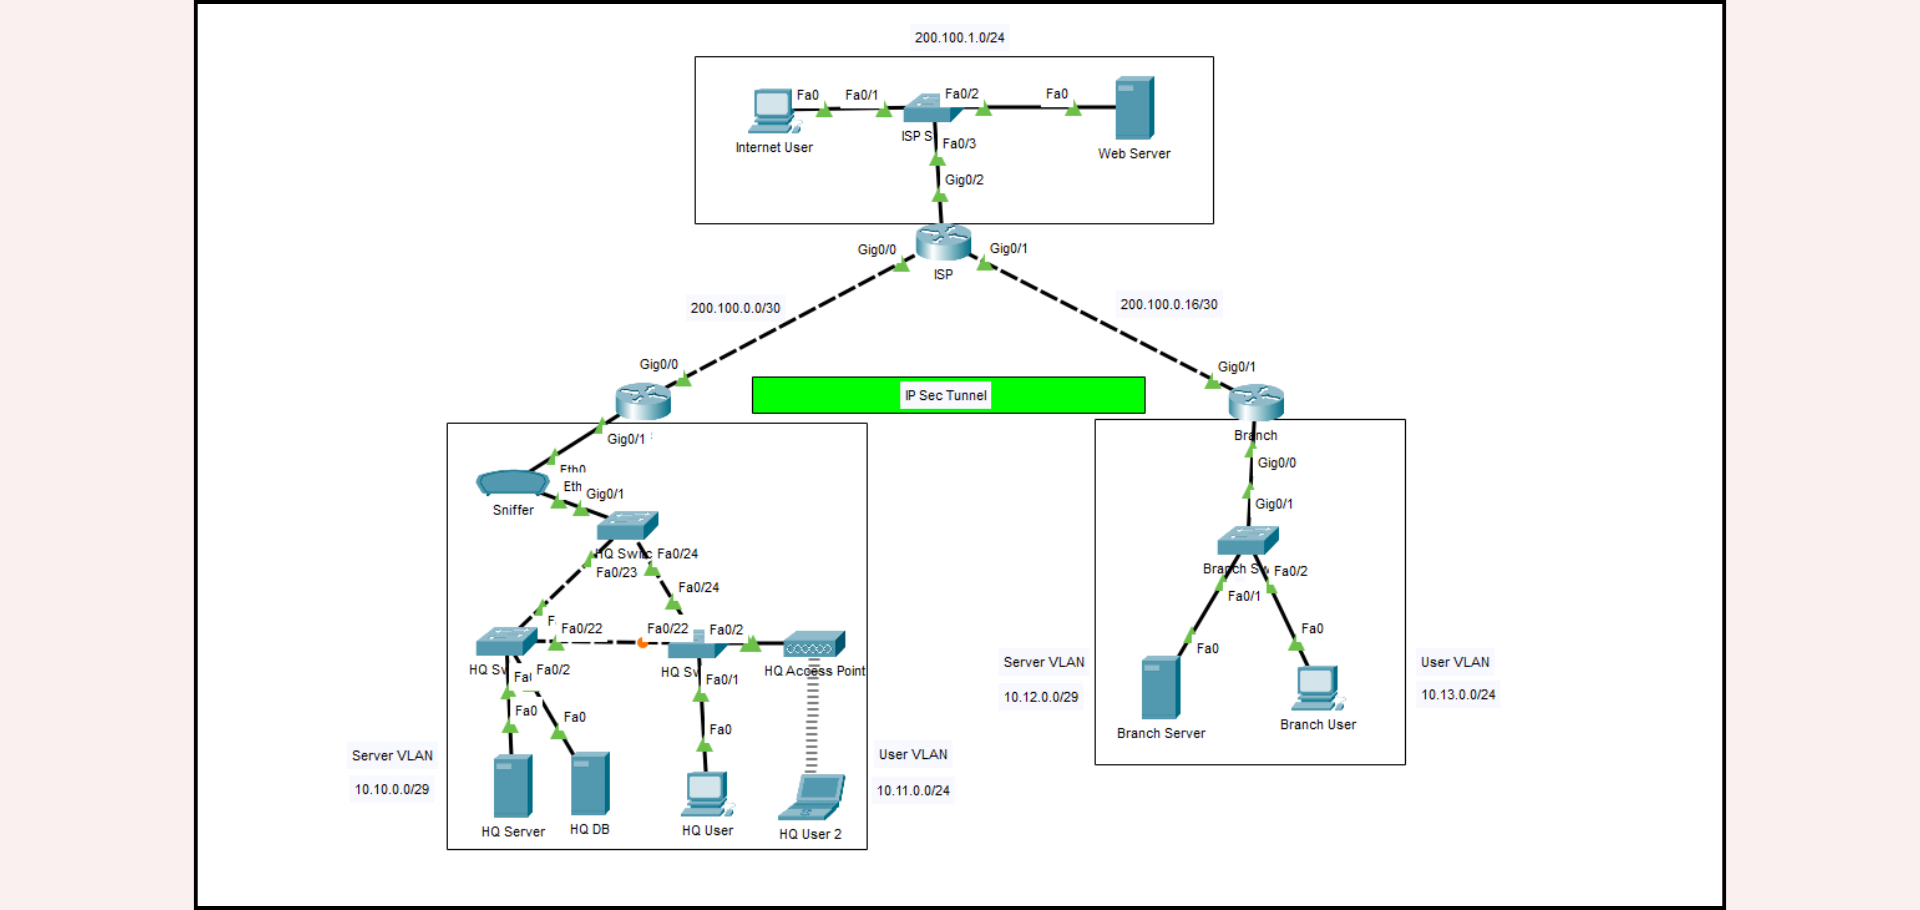
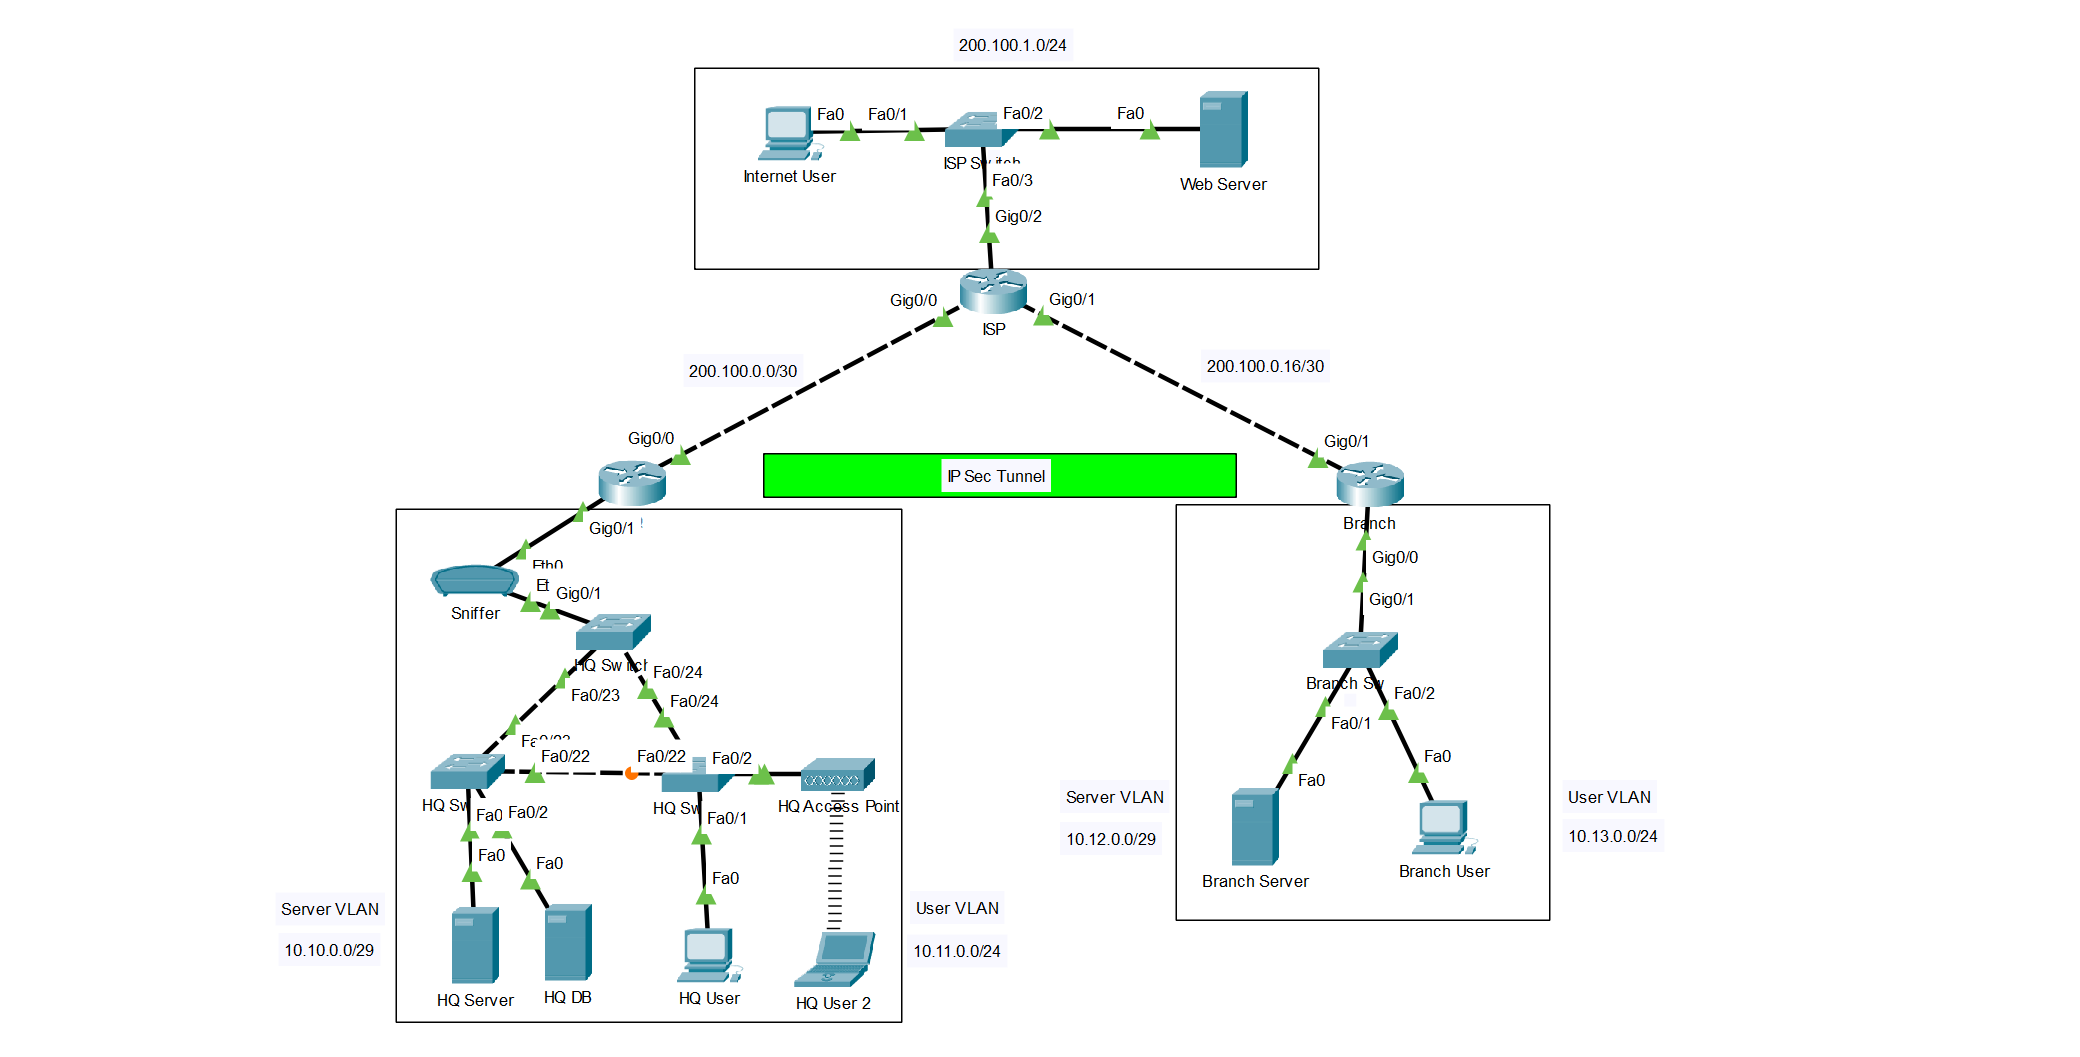
Added New achievements and fixed carousel sizing and contact me page sizing

diff --git a/index.html b/index.html
@@ -836,13 +836,13 @@
             <div class="modal-dialog modal-lg" role="document">
                 <div class="modal-content">
                     <div class="modal-header">
-                        <h5 class="modal-title" id="projectModalLabel11"><b>PDF-Tools</b></h5>
+                        <h5 class="modal-title" id="projectModalLabel11"><b>PDF Tools</b></h5>
                         <button type="button" class="close" data-dismiss="modal" aria-label="Close">
                             <span aria-hidden="true">&times;</span>
                         </button>
                     </div>
                     <div class="modal-body">
-                        <img src="IMG/PRJ/PDFT2.png" class="img-fluid mb-3" alt="PDF-Tools Project">
+                        <img src="IMG/PRJ/PDFT2.png" class="img-fluid mb-3" alt="PDF Tools Project">
                         <div class="modal-text">
                             <p><strong>Project Description:</strong></p>
                             <p>
@@ -900,7 +900,22 @@
         <div id="nypCarousel" class="carousel slide mb-5 nyp-carousel scroll-animate" data-ride="carousel" data-interval="false">
             <div class="carousel-inner">
                 <div class="carousel-item active">
-                    <img src="IMG/NYP/WSS25.png" class="d-block w-100 achievement-img" alt="NYP Achievement 6" data-toggle="modal" data-target="#nypModal6">
+                    <div class="achievement-frame">
+                        <img src="IMG/NYP/Academic.png" class="d-block w-100 achievement-img" alt="NYP Achievement 4" data-toggle="modal" data-target="#nypModal4">
+                    </div>
+                    <div class="achievement-description p-3">
+                        <h5><b>Edusave Certificate of Academic Achievement 2024/2025</b></h5>
+                        <p>Awarded to Students for Achieving Good Academic Performance and Demonstrating Good Conduct.</p>
+                        <div class="project-tags">
+                            <span class="tag">2025</span>
+                            <span class="tag">2024</span>
+                        </div>
+                    </div>
+                </div>
+                <div class="carousel-item">
+                    <div class="achievement-frame">
+                        <img src="IMG/NYP/WSS25.png" class="d-block w-100 achievement-img" alt="NYP Achievement 6" data-toggle="modal" data-target="#nypModal6">
+                    </div>
                     <div class="achievement-description p-3">
                         <h5><b>Medallion for Excellence (WSS25 IT Network Systems Administration)</b></h5>
                         <p>Awarded to competitors who obtain a high level of excellence, with 700 or more points out of 800 but who are not awarded a gold, silver, or bronze medal.</p>
@@ -910,7 +925,9 @@
                     </div>
                 </div>
                 <div class="carousel-item">
-                    <img src="IMG/NYP/Net.png" class="d-block w-100 achievement-img" alt="NYP Achievement 7" data-toggle="modal" data-target="#nypModal7">
+                    <div class="achievement-frame">
+                        <img src="IMG/NYP/Net.png" class="d-block w-100 achievement-img" alt="NYP Achievement 7" data-toggle="modal" data-target="#nypModal7">
+                    </div>
                     <div class="achievement-description p-3">
                         <h5><b>Cisco APJC Netacad Riders 2025 Participant</b></h5>
                         <p>Awarded to Participants in APJC NetAcad Riders 2025.</p>
@@ -920,7 +937,9 @@
                     </div>
                 </div>
                 <div class="carousel-item">
-                    <img src="IMG/NYP/Scholarship.png" class="d-block w-100 achievement-img" alt="NYP Achievement 1" data-toggle="modal" data-target="#nypModal1">
+                    <div class="achievement-frame">
+                        <img src="IMG/NYP/Scholarship.png" class="d-block w-100 achievement-img" alt="NYP Achievement 1" data-toggle="modal" data-target="#nypModal1">
+                    </div>
                     <div class="achievement-description p-3">
                         <h5><b>NYP Scholarship (Mid-Term)</b></h5>
                         <p>The NYP Scholarship is offered to top performing Year 2 students who are pursuing full time diploma courses in NYP.</p>
@@ -931,7 +950,9 @@
                     </div>
                 </div>
                 <div class="carousel-item">
-                    <img src="IMG/NYP/NYPDlist2.png" class="d-block w-100 achievement-img" alt="NYP Achievement 5" data-toggle="modal" data-target="#nypModal5">
+                    <div class="achievement-frame">
+                        <img src="IMG/NYP/NYPDlist2.png" class="d-block w-100 achievement-img" alt="NYP Achievement 5" data-toggle="modal" data-target="#nypModal5">
+                    </div>
                     <div class="achievement-description p-3">
                         <h5><b>Director's List [Y2S1]</b></h5>
                         <p>Awarded to Top 15% in Course of Study at Nanyang Polytechnic.</p>
@@ -942,7 +963,9 @@
                     </div>
                 </div>
                 <div class="carousel-item">
-                    <img src="IMG/NYP/Perform.png" class="d-block w-100 achievement-img" alt="NYP Achievement 2" data-toggle="modal" data-target="#nypModal2">
+                    <div class="achievement-frame">
+                        <img src="IMG/NYP/Perform.png" class="d-block w-100 achievement-img" alt="NYP Achievement 2" data-toggle="modal" data-target="#nypModal2">
+                    </div>
                     <div class="achievement-description p-3">
                         <h5><b>Best Performing Student [Y1] [Diploma in Infocomm & Security]</b></h5>
                         <p>Awarded to a Top Performing Student in Course of Study in their Cohort.</p>
@@ -953,23 +976,15 @@
                     </div>
                 </div>
                 <div class="carousel-item">
-                    <img src="IMG/NYP/NYPDlist.png" class="d-block w-100 achievement-img" alt="NYP Achievement 3" data-toggle="modal" data-target="#nypModal3">
+                    <div class="achievement-frame">
+                        <img src="IMG/NYP/NYPDlist.png" class="d-block w-100 achievement-img" alt="NYP Achievement 3" data-toggle="modal" data-target="#nypModal3">
+                    </div>
                     <div class="achievement-description p-3">
                         <h5><b>Director's List [Y1S1/S2]</b></h5>
                         <p>Awarded to Top 15% in Course of Study at Nanyang Polytechnic.</p>
                         <div class="project-tags">
                             <span class="tag">2024</span>
                             <span class="tag">2023</span>
-                        </div>
-                    </div>
-                </div>
-                <div class="carousel-item">
-                    <img src="IMG/NYP/Academic.png" class="d-block w-100 achievement-img" alt="NYP Achievement 4" data-toggle="modal" data-target="#nypModal4">
-                    <div class="achievement-description p-3">
-                        <h5><b>Edusave Certificate of Academic Achievement 2024</b></h5>
-                        <p>Awarded to Students for Achieving Good Academic Performance and Demonstrating Good Conduct.</p>
-                        <div class="project-tags">
-                            <span class="tag">2024</span>
                         </div>
                     </div>
                 </div>
@@ -989,7 +1004,9 @@
         <div id="iteCarousel" class="carousel slide mb-5 ite-carousel scroll-animate" data-ride="carousel" data-interval="false">
             <div class="carousel-inner">
                 <div class="carousel-item active">
-                    <img src="IMG/ITE/Outstanding.png" class="d-block w-100 achievement-img" alt="ITE Achievement 1" data-toggle="modal" data-target="#iteModal1">
+                    <div class="achievement-frame">
+                        <img src="IMG/ITE/Outstanding.png" class="d-block w-100 achievement-img" alt="ITE Achievement 1" data-toggle="modal" data-target="#iteModal1">
+                    </div>
                     <div class="achievement-description p-3">
                         <h5><b>Outstanding Graduate Award</b></h5>
                         <p>Awarded to a Top Graduate in Course of Study at ITE College East.</p>
@@ -999,7 +1016,9 @@
                     </div>
                 </div>
                 <div class="carousel-item">
-                    <img src="IMG/ITE/Eagles.png" class="d-block w-100 achievement-img" alt="ITE Achievement 2" data-toggle="modal" data-target="#iteModal2">
+                    <div class="achievement-frame">
+                        <img src="IMG/ITE/Eagles.png" class="d-block w-100 achievement-img" alt="ITE Achievement 2" data-toggle="modal" data-target="#iteModal2">
+                    </div>
                     <div class="achievement-description p-3">
                         <h5><b>Edusave Award for Achievement, Good Leadership and Service (EAGLES) 2023</b></h5>
                         <p>Awarded to Students for Demonstrating Leadership Qualities, Service to Community and Schools, Excellence in Non-academic Activities, and Good Conduct.</p>
@@ -1009,7 +1028,9 @@
                     </div>
                 </div>
                 <div class="carousel-item">
-                    <img src="IMG/ITE/Academic.png" class="d-block w-100 achievement-img" alt="ITE Achievement 3" data-toggle="modal" data-target="#iteModal3">
+                    <div class="achievement-frame">
+                        <img src="IMG/ITE/Academic.png" class="d-block w-100 achievement-img" alt="ITE Achievement 3" data-toggle="modal" data-target="#iteModal3">
+                    </div>
                     <div class="achievement-description p-3">
                         <h5><b>Edusave Certificate of Academic Achievement 2022/2023</b></h5>
                         <p>Awarded to Students for Achieving Good Academic Performance and Demonstrating Good Conduct.</p>
@@ -1020,7 +1041,9 @@
                     </div>
                 </div>
                 <div class="carousel-item">
-                    <img src="IMG/ITE/ITEDlist.png" class="d-block w-100 achievement-img" alt="ITE Achievement 4" data-toggle="modal" data-target="#iteModal4">
+                    <div class="achievement-frame">
+                        <img src="IMG/ITE/ITEDlist.png" class="d-block w-100 achievement-img" alt="ITE Achievement 4" data-toggle="modal" data-target="#iteModal4">
+                    </div>
                     <div class="achievement-description p-3">
                         <h5><b>Director's List [Y1S1/S2]</b></h5>
                         <p>Awarded to Top 10% in Course of Study at ITE College East.</p>
@@ -1031,7 +1054,9 @@
                     </div>
                 </div>
                 <div class="carousel-item">
-                    <img src="IMG/ITE/Service.png" class="d-block w-100 achievement-img" alt="ITE Achievement 5" data-toggle="modal" data-target="#iteModal5">
+                    <div class="achievement-frame">
+                        <img src="IMG/ITE/Service.png" class="d-block w-100 achievement-img" alt="ITE Achievement 5" data-toggle="modal" data-target="#iteModal5">
+                    </div>
                     <div class="achievement-description p-3">
                         <h5><b>Gold Service Star Award</b></h5>
                         <p>Awarded to students for their exceptional efforts and contributions in charitable acts and/or service to ITE College East.</p>
@@ -1041,7 +1066,9 @@
                     </div>
                 </div>
                 <div class="carousel-item">
-                    <img src="IMG/ITE/Character.png" class="d-block w-100 achievement-img" alt="ITE Achievement 6" data-toggle="modal" data-target="#iteModal6">
+                    <div class="achievement-frame">
+                        <img src="IMG/ITE/Character.png" class="d-block w-100 achievement-img" alt="ITE Achievement 6" data-toggle="modal" data-target="#iteModal6">
+                    </div>
                     <div class="achievement-description p-3">
                         <h5><b>Edusave Character Award 2022</b></h5>
                         <p>Awarded to Students for Demonstrating Exemplary Character and Outstanding Personal Qualities.</p>
@@ -1051,7 +1078,9 @@
                     </div>
                 </div>
                 <div class="carousel-item">
-                    <img src="IMG/ITE/Net.png" class="d-block w-100 achievement-img" alt="ITE Achievement 7" data-toggle="modal" data-target="#iteModal7">
+                    <div class="achievement-frame">
+                        <img src="IMG/ITE/Net.png" class="d-block w-100 achievement-img" alt="ITE Achievement 7" data-toggle="modal" data-target="#iteModal7">
+                    </div>
                     <div class="achievement-description p-3">
                         <h5><b>Cisco APJC Netacad Riders 2022 Participant</b></h5>
                         <p>Awarded to Participants in APJC NetAcad Riders 2022.</p>
@@ -1061,7 +1090,9 @@
                     </div>
                 </div>
                 <div class="carousel-item">
-                    <img src="IMG/ITE/Intern.png" class="d-block w-100 achievement-img" alt="ITE Achievement 8" data-toggle="modal" data-target="#iteModal8">
+                    <div class="achievement-frame">
+                        <img src="IMG/ITE/Intern.png" class="d-block w-100 achievement-img" alt="ITE Achievement 8" data-toggle="modal" data-target="#iteModal8">
+                    </div>
                     <div class="achievement-description p-3">
                         <h5><b>Internship Programme at NEO Electronics Pte Ltd</b></h5>
                         <p>Completed Internship Programme at NEO Electronics Pte Ltd</p>

diff --git a/CSS/home.css b/CSS/home.css
@@ -221,7 +221,7 @@ html, body {
 
 .modal-title {
     font-size: 1.8rem;
-    color: #00796b; 
+    color: #00796b;
 }
 
 .modal-body {
@@ -747,7 +747,7 @@ html, body {
     text-align: center;
     padding: 20px;
     background: linear-gradient(135deg, #b2ebf2, #4dd0e1);
-    color: #004d40;
+    color: #00796b;
     font-size: 1rem;
     border-radius: 20px 20px 20px 20px;
     box-shadow: 0 -5px 10px rgba(0, 0, 0, 0.1);
@@ -856,4 +856,107 @@ html, body {
     color: #00796b;
 }
 
+.achievement-description {
+  height: 205px;      
+  overflow: hidden;    
+  display: flex;
+  flex-direction: column;
+  justify-content: flex-start;
+}
 
+.achievement-description .project-tags {
+  margin-top: auto;            
+  padding-top: 10px;          
+}
+
+@media (max-width: 768px) {
+  .achievement-description {
+    height: 235px;  
+  }
+}
+
+
+@media (max-width: 576px) {
+  .achievement-description {
+    height: 285px;  
+  }
+}
+
+.nyp-carousel .carousel-control-prev,
+.nyp-carousel .carousel-control-next,
+.ite-carousel .carousel-control-prev,
+.ite-carousel .carousel-control-next {
+  top: 50%;                        
+  transform: translateY(-50%);
+  bottom: auto;                    
+  height: 80px;                    
+  width: 40px;                      
+  display: flex;
+  align-items: center;
+  justify-content: center;
+}
+
+.nyp-carousel .achievement-img,
+.ite-carousel .achievement-img {
+  position: relative;
+}
+
+.nyp-carousel .carousel-control-prev,
+.nyp-carousel .carousel-control-next,
+.ite-carousel .carousel-control-prev,
+.ite-carousel .carousel-control-next {
+  z-index: 5;                      
+}
+
+.achievement-frame{
+  aspect-ratio: 16 / 9;        
+  width: 100%;
+  border-radius: 20px 20px 0 0;
+  overflow: hidden;
+  display: flex;
+  align-items: center;
+  justify-content: center;
+  background: #e0f7fa;        
+}
+
+.achievement-frame .achievement-img{
+  max-width: 100%;
+  max-height: 100%;
+  object-fit: contain;
+  display: block;
+}
+
+@media (min-width: 768px) and (max-width: 1024px) {
+
+  .nyp-carousel,
+  .ite-carousel {
+    max-width: 92%;
+    margin-left: auto;
+    margin-right: auto;
+    border-radius: 22px;
+  }
+
+  .achievement-description {
+    height: 230px;            
+  }
+  #about .col-md-6.text-start {
+    flex: 0 0 70%;    
+    max-width: 70%;
+  }
+
+  #about p {
+    font-size: 1.2rem;
+    line-height: 1.7;  
+  }
+
+  #about h2 {
+    font-size: 2.8rem;
+  }
+}
+
+#about h2 {
+  color: #00796b;
+}
+.project-card h3 {
+  color: #00796b;
+}

diff --git a/CSS/contact.css b/CSS/contact.css
@@ -118,7 +118,7 @@ body {
     text-align: center;
     padding: 20px;
     background: linear-gradient(135deg, #b2ebf2, #4dd0e1);
-    color: #004d40;
+    color: #00796b;
     font-size: 1rem;
     border-radius: 20px 20px 20px 20px;
     box-shadow: 0 -5px 10px rgba(0, 0, 0, 0.1);
@@ -169,4 +169,46 @@ body {
         margin-right: auto;
         font-size: 1.09rem;
     }
+}
+
+.contact-container {
+  width: min(92vw, 720px);                
+  max-width: none;                        
+  padding: clamp(18px, 4vw, 40px);        
+  border-radius: clamp(16px, 3vw, 30px);  
+}
+
+.contact-title {
+  font-size: clamp(1.6rem, 3.2vw, 2.5rem);
+}
+
+.form-input,
+.form-textarea,
+.submit-button {
+  font-size: clamp(0.95rem, 2.4vw, 1rem);
+  padding: clamp(12px, 2.6vw, 15px);
+}
+
+.form-textarea {
+  height: clamp(140px, 22vh, 220px);
+}
+
+.char-counter {
+  font-size: clamp(0.85rem, 2vw, 0.95rem);
+}
+
+@media (max-width: 576px) {
+  .contact-container { width: 94vw; }
+}
+
+@media (min-width: 768px) and (max-width: 1024px) {
+  .contact-container { width: min(88vw, 640px); }
+}
+
+@media (min-width: 1440px) {
+  .contact-container { width: min(70vw, 760px); }
+}
+
+.contact-container {
+  margin-bottom: 60px;
 }
